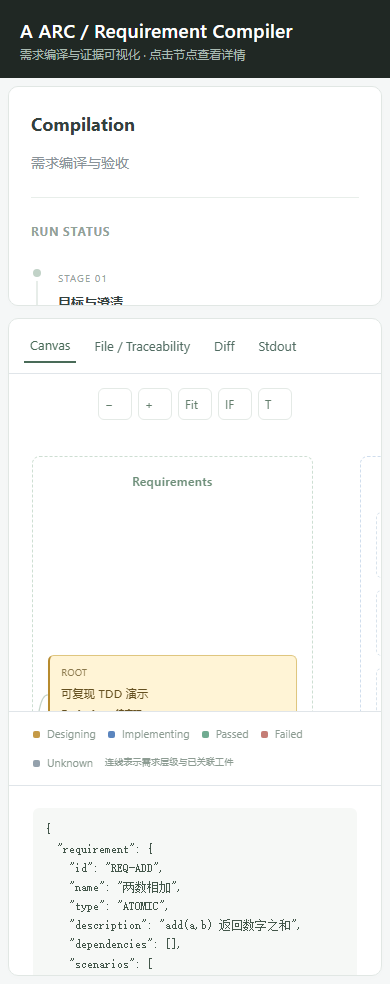
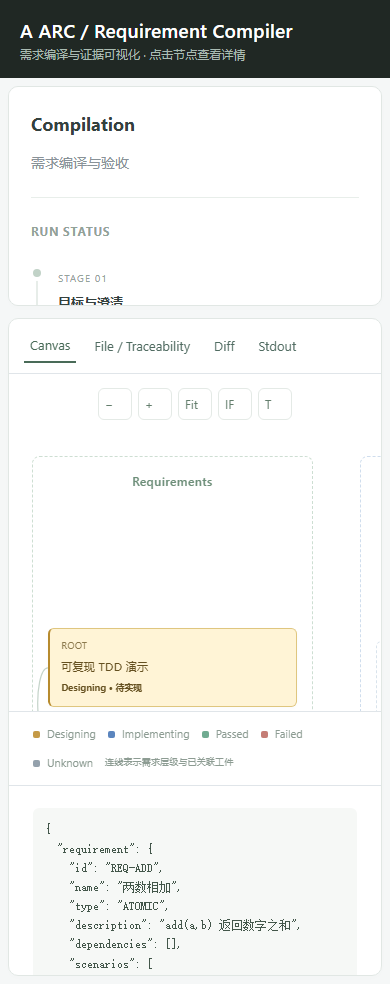
fix: derive Canvas interface scopes dynamically from REQs

Changed region(s): [[0.0923, 0.6402, 0.7692, 0.7317]]

diff --git a/examples/demo/report.html b/examples/demo/report.html
@@ -92,9 +92,12 @@ walk(data.requirements);if(!data.requirements)el('canvas-tree').textContent='暂
 function bucket(parent,title,items){const box=document.createElement('div');box.className='bucket';const h=document.createElement('h4');h.textContent=title;h.className='scope-label';const count=document.createElement('span');count.className='scope-count';count.textContent=items.length;h.append(count);box.append(h);for(const item of items)box.append(nodeButton(item.path,item.id,item.value,item.status));if(!items.length){const empty=document.createElement('small');empty.className='muted';empty.textContent='暂无工件';box.append(empty);}el(parent).append(box);return box;}
 const codes=[],tests=[],runs=[];for(const [id,e] of Object.entries(data.traceability)){for(const path of e.code||[])codes.push({path,id,value:e,status:e.status});for(const path of e.tests||[])tests.push({path,id,value:e,status:e.status});for(const r of e.test_runs||[]){const running=r.exit_code==null&&!r.finished_at;runs.push({path:(r.command||[]).join(' ')+(running?' · running':' · exit '+r.exit_code),id,value:r,status:running?'running':(r.exit_code===0?'accepted':'failed')});}}
 for(const [id,plan] of Object.entries(data.tdd||{})){for(const path of plan.code||[]){if(!codes.some(x=>x.id===id&&x.path.replaceAll('\\','/').endsWith(path.replaceAll('\\','/'))))codes.push({path:'计划 · '+path,id,value:{status:'planned',tdd:plan},status:'pending'});}for(const path of plan.tests||[]){if(!tests.some(x=>x.id===id&&x.path.replaceAll('\\','/').endsWith(path.replaceAll('\\','/'))))tests.push({path:'计划 · '+path,id,value:{status:'planned',tdd:plan},status:'pending'});}}
-const reqScopes={};function scopes(node,inherited=null){if(!node)return;const scope=typeof node.scope==='string'&&node.scope.trim()?node.scope.trim():inherited;reqScopes[node.id]=scope;for(const child of node.children||[])scopes(child,scope);}scopes(data.requirements);
-function interfaceScope(item){const path=item.path.replace(/^计划 · /,'').replaceAll('\\','/');const maps=[data.traceability[item.id]?.interface_scopes||{},data.tdd?.[item.id]?.interface_scopes||{}];for(const map of maps){for(const [file,scope] of Object.entries(map)){const normalized=file.replaceAll('\\','/');if((path===normalized||path.endsWith('/'+normalized))&&typeof scope==='string'&&scope.trim())return scope.trim();}}return reqScopes[item.id]||'未指定 scope';}
-const groups=new Map(['UI','API','FUNC','DB'].map(scope=>[scope,[]]));for(const item of codes){const scope=interfaceScope(item);if(!groups.has(scope))groups.set(scope,[]);groups.get(scope).push(item);}for(const [scope,items] of groups){const box=bucket('interface-nodes',scope,items);box.dataset.scope=scope;}
+const reqScopes={},groups=new Map();function declareScope(scope){if(typeof scope!=='string'||!scope.trim())return null;scope=scope.trim();if(!groups.has(scope))groups.set(scope,[]);return scope;}
+function scopes(node,inherited=null){if(!node)return;const scope=declareScope(node.scope)||inherited;reqScopes[node.id]=scope;for(const child of node.children||[])scopes(child,scope);}scopes(data.requirements);
+for(const [id,plan] of Object.entries(data.tdd||{})){if(!(id in reqScopes))continue;for(const scope of Object.values(plan.interface_scopes||{}))declareScope(scope);}
+function interfaceScope(item){const path=item.path.replace(/^计划 · /,'').replaceAll('\\','/');for(const [file,scope] of Object.entries(data.tdd?.[item.id]?.interface_scopes||{})){const normalized=file.replaceAll('\\','/');if((path===normalized||path.endsWith('/'+normalized))&&typeof scope==='string'&&scope.trim())return scope.trim();}return reqScopes[item.id]||'未指定 scope';}
+for(const item of codes){if(!(item.id in reqScopes))continue;const scope=interfaceScope(item);if(!groups.has(scope))groups.set(scope,[]);groups.get(scope).push(item);}for(const [scope,items] of groups){const box=bucket('interface-nodes',scope,items);box.dataset.scope=scope;}
+if(!groups.size){const empty=document.createElement('small');empty.className='muted';empty.textContent='REQ 尚未声明 scope 或关联工件';el('interface-nodes').append(empty);}
 bucket('test-nodes','TEST · 测试工件',tests);bucket('test-nodes','RUN · 实际运行记录',runs);
 requestAnimationFrame(drawConnections);
 }

diff --git a/reqflow/canvas.py b/reqflow/canvas.py
@@ -39,9 +39,12 @@ walk(data.requirements);if(!data.requirements)el('canvas-tree').textContent='暂
 function bucket(parent,title,items){const box=document.createElement('div');box.className='bucket';const h=document.createElement('h4');h.textContent=title;h.className='scope-label';const count=document.createElement('span');count.className='scope-count';count.textContent=items.length;h.append(count);box.append(h);for(const item of items)box.append(nodeButton(item.path,item.id,item.value,item.status));if(!items.length){const empty=document.createElement('small');empty.className='muted';empty.textContent='暂无工件';box.append(empty);}el(parent).append(box);return box;}
 const codes=[],tests=[],runs=[];for(const [id,e] of Object.entries(data.traceability)){for(const path of e.code||[])codes.push({path,id,value:e,status:e.status});for(const path of e.tests||[])tests.push({path,id,value:e,status:e.status});for(const r of e.test_runs||[]){const running=r.exit_code==null&&!r.finished_at;runs.push({path:(r.command||[]).join(' ')+(running?' · running':' · exit '+r.exit_code),id,value:r,status:running?'running':(r.exit_code===0?'accepted':'failed')});}}
 for(const [id,plan] of Object.entries(data.tdd||{})){for(const path of plan.code||[]){if(!codes.some(x=>x.id===id&&x.path.replaceAll('\\','/').endsWith(path.replaceAll('\\','/'))))codes.push({path:'计划 · '+path,id,value:{status:'planned',tdd:plan},status:'pending'});}for(const path of plan.tests||[]){if(!tests.some(x=>x.id===id&&x.path.replaceAll('\\','/').endsWith(path.replaceAll('\\','/'))))tests.push({path:'计划 · '+path,id,value:{status:'planned',tdd:plan},status:'pending'});}}
-const reqScopes={};function scopes(node,inherited=null){if(!node)return;const scope=typeof node.scope==='string'&&node.scope.trim()?node.scope.trim():inherited;reqScopes[node.id]=scope;for(const child of node.children||[])scopes(child,scope);}scopes(data.requirements);
-function interfaceScope(item){const path=item.path.replace(/^计划 · /,'').replaceAll('\\','/');const maps=[data.traceability[item.id]?.interface_scopes||{},data.tdd?.[item.id]?.interface_scopes||{}];for(const map of maps){for(const [file,scope] of Object.entries(map)){const normalized=file.replaceAll('\\','/');if((path===normalized||path.endsWith('/'+normalized))&&typeof scope==='string'&&scope.trim())return scope.trim();}}return reqScopes[item.id]||'未指定 scope';}
-const groups=new Map(['UI','API','FUNC','DB'].map(scope=>[scope,[]]));for(const item of codes){const scope=interfaceScope(item);if(!groups.has(scope))groups.set(scope,[]);groups.get(scope).push(item);}for(const [scope,items] of groups){const box=bucket('interface-nodes',scope,items);box.dataset.scope=scope;}
+const reqScopes={},groups=new Map();function declareScope(scope){if(typeof scope!=='string'||!scope.trim())return null;scope=scope.trim();if(!groups.has(scope))groups.set(scope,[]);return scope;}
+function scopes(node,inherited=null){if(!node)return;const scope=declareScope(node.scope)||inherited;reqScopes[node.id]=scope;for(const child of node.children||[])scopes(child,scope);}scopes(data.requirements);
+for(const [id,plan] of Object.entries(data.tdd||{})){if(!(id in reqScopes))continue;for(const scope of Object.values(plan.interface_scopes||{}))declareScope(scope);}
+function interfaceScope(item){const path=item.path.replace(/^计划 · /,'').replaceAll('\\','/');for(const [file,scope] of Object.entries(data.tdd?.[item.id]?.interface_scopes||{})){const normalized=file.replaceAll('\\','/');if((path===normalized||path.endsWith('/'+normalized))&&typeof scope==='string'&&scope.trim())return scope.trim();}return reqScopes[item.id]||'未指定 scope';}
+for(const item of codes){if(!(item.id in reqScopes))continue;const scope=interfaceScope(item);if(!groups.has(scope))groups.set(scope,[]);groups.get(scope).push(item);}for(const [scope,items] of groups){const box=bucket('interface-nodes',scope,items);box.dataset.scope=scope;}
+if(!groups.size){const empty=document.createElement('small');empty.className='muted';empty.textContent='REQ 尚未声明 scope 或关联工件';el('interface-nodes').append(empty);}
 bucket('test-nodes','TEST · 测试工件',tests);bucket('test-nodes','RUN · 实际运行记录',runs);
 requestAnimationFrame(drawConnections);
 }

diff --git a/docs/usage.md b/docs/usage.md
@@ -65,7 +65,7 @@ compile 使用分析者身份记录编译就绪状态，不冒充额外的开发
 
 只监听 `127.0.0.1`，每两秒只读更新，Ctrl+C 停止。左侧阶段，右侧 Requirements、Interfaces、Tests 三栏内容纵向居中。SVG 曲线表示父子需求及同 REQ 的代码/测试关联；没有关联记录时不凭空连接。编译后的计划代码/测试单独显示“计划”，实际证据按记录状态显示。支持缩放、Fit、工件栏隐藏、节点详情、追溯与差异页。离线 view 不实时更新。
 
-Interfaces 按 scope 分组：默认 UI、API、FUNC、DB，支持自定义名称，无标注时放入“未指定 scope”。优先使用证据或 TDD 计划中的 `interface_scopes: {代码路径: SCOPE}`，其次继承需求树节点/父节点的 `scope`。同一 REQ 的不同代码文件可以属于不同 scope，连线仍按原 REQ 保留。记录实际工件时可用 `evidence ... --code src/api.py --interface-scope src/api.py=API`（可重复）。
+Interfaces 的 scope 从当前 REQ 文档动态获取，不预设 UI、API、FUNC、DB，也不限于软件前后端。需求树节点用 `scope: 机械控制` 声明，子需求可继承；原子 REQ 的 TDD 计划可用 `interface_scopes: {代码路径: 传感器采集}` 按文件细分。只显示当前 REQ 涉及的 scope，尚无工件时显示空组；未声明 scope 的工件放入“未指定 scope”。证据中的 scope 元数据不会创建或覆盖 REQ 的 scope。分组保留原 REQ 连线，实时更新需求后随之更新。
 
 节点以底色和文字同时标识状态：黄为待实现/计划，蓝为执行中，绿为通过，红为失败，灰为未知。verify 启动测试前写入 running，测试完成后更新结果；实时 Canvas 下次轮询会同步颜色，历史失败运行仍保留红色。
 

diff --git a/skills/arc/references/analysis.md b/skills/arc/references/analysis.md
@@ -48,10 +48,12 @@ tdd:
     tests: [tests/test_calculator.py]
     code: [calculator.py]
     interface_scopes:
-      calculator.py: FUNC
+      calculator.py: 整数运算
     red: 求和断言在 add 尚未实现时失败
 ```
 
 按项目技术栈选择真实可执行 argv，不机械沿用示例命令。代码和测试路径可指向计划新建的文件；compile 不执行它们。使用场景明确可观察输出、错误行为与边界条件，不凭空扩大范围。业务选择、缺失输入/输出、互相矛盾的规则必须先问开发者。
+
+scope 根据要求的实际职责在 REQ 中声明，不套用固定的前后端分类。可在需求节点设置 `scope`（子节点继承），或通过 TDD 的 `interface_scopes` 按代码路径声明任意领域名称，如机械控制、传感器采集、数据清洗。Canvas 仅动态显示当前 REQ 涉及的 scope，不靠证据元数据或文件后缀推断。
 
 `compile` 校验问题已实际回答、分析已复核、schema 和依赖无误、每个原子 REQ 的 TDD 字段齐全，才生成 `requirements.yaml`、`requirements.md` 和 `reqs/REQ-ID.yaml`。编译记录不代表测试通过。未知业务语义能否被发现仍依赖 Agent 的分析质量，CLI 不声称能自动证明自然语言不存在歧义。

diff --git a/docs/verification/canvas.md b/docs/verification/canvas.md
@@ -1,5 +1,7 @@
 # Canvas 与 skill 验证（2026-10-27）
 
+动态 scope 更新：`check-canvas-states.cjs` 已验证只从当前 REQ 的 scope 和 TDD interface_scopes 生成分组，支持机械控制、传感器采集等领域名及父级 scope 继承；未涉及的固定分组不出现，历史 REQ/证据中的额外 scope 不影响分组。声明 scope 但尚无工件时保留空组，无 REQ 时无预设组。现有连线、状态底色、纵向居中和移动布局检查仍通过。
+
 2026-10-28 更新：ARC 37 项测试通过。新增验证覆盖 verify 执行中的 running 状态及最终状态、scope 元数据保存；`scripts/check-canvas-states.cjs` 验证 UI/API/FUNC/DB、自定义和未指定 scope 分组，五种不同底色、运行状态变化、工件连线及移动端布局。截图见 `examples/demo/scope-states.png`。
 
 - Windows：ARC 36 项、相邻新版 scheduler 19 项 unittest 通过，见 `windows.json` 和对应日志。
